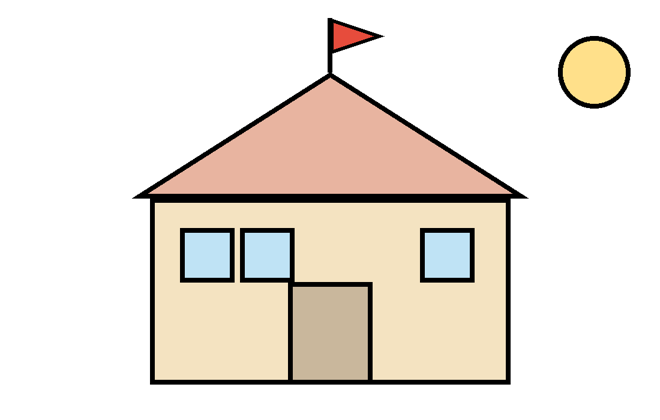
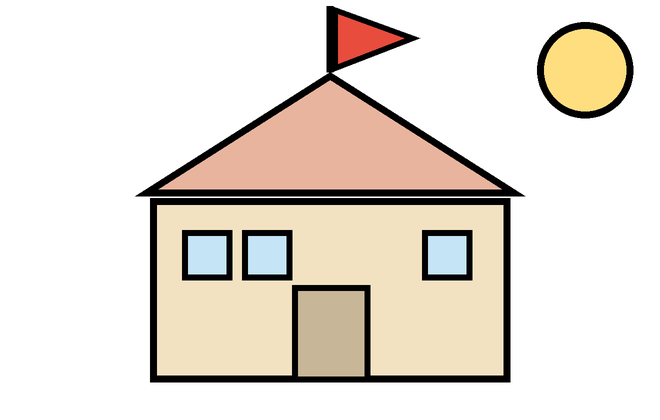
Checkpoint: lesson x.10 consolidation plan

Changed region(s): [[0.2121, 0.0, 0.7879, 0.9286], [0.7879, 0.031, 0.9697, 0.2786], [0.6364, 0.5262, 0.7273, 0.681]]

diff --git a/hp/workbook_html.js b/hp/workbook_html.js
@@ -260,7 +260,7 @@ W.push(...coreEnd(6));
 W.push(...extra(6));
 W.push(...hdr(7, 'Shapes', 'SHAPE SAFARI')); W.push(fast());
 W.push(q(1, 'Count the shapes in the house picture.', { before: 40, keepNext: true }));
-W.push(img('house.png', 270, 171));
+W.push(img('house.png', 270, 172));
 W.push(tbl([2475, 2475, 2475, 2475], [row(['Circle', 'Triangle', 'Square', 'Rectangle'].map(s => cell(s, 2475, { bold: true, fill: 'EDEDED' }))), row(['', '', '', ''].map(s => cell(s, 2475, { h: 60 })))]));
 W.push(sub('a', 'Which shape is there the most of?   ____________      (b)  How many shapes altogether?   ____'));
 W.push(q(2, 'Sides and corners. Look at the shapes, then fill in the table.', { keepNext: true }));
@@ -295,7 +295,7 @@ W.push(sub('c', [t('The red ribbon is longer than the blue one.'), NL(), t('The 
 W.push(p([t('______________,  ______________,  ______________,  ______________')], { indent: { left: 1000 }, after: 100 }));
 W.push(q(2, 'Write 1 to 10 in the loops “Numbers less than 6” and “Odd numbers”.', { keepNext: true }));
 W.push(`<div class="p kn" style="border:2px solid #1F7A6F;border-radius:10px;background:#E8F5F2;padding:6px 14px;margin:2px 0 8px;font-size:15.5px"><b>Odd</b> numbers end in 1, 3, 5, 7 or 9. <b>Even</b> numbers end in 0, 2, 4, 6 or 8.</div>`);
-W.push(img('venn.png', 320, 180));
+W.push(img('venn.png', 380, 211));
 W.push(sub('a', 'Numbers in BOTH circles: ____________________'));
 W.push(sub('b', 'Why are they in the middle?'));
 W.push(...lines(2));
